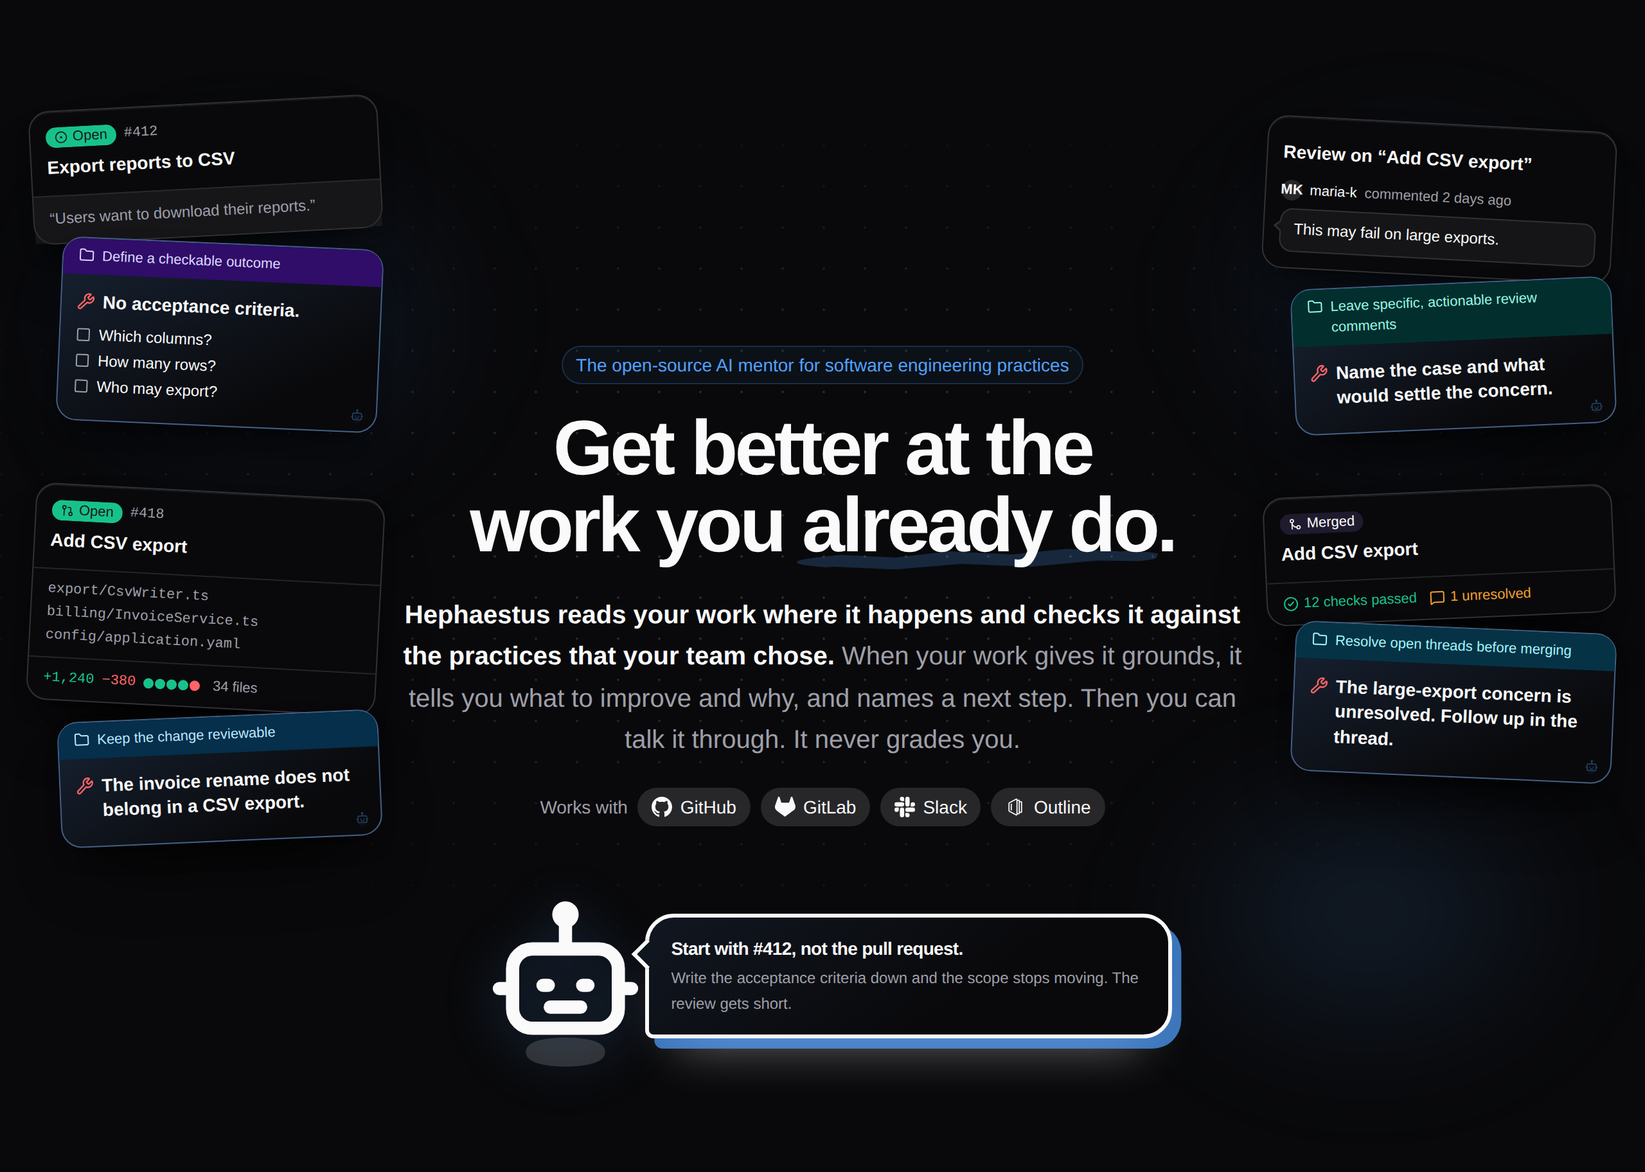
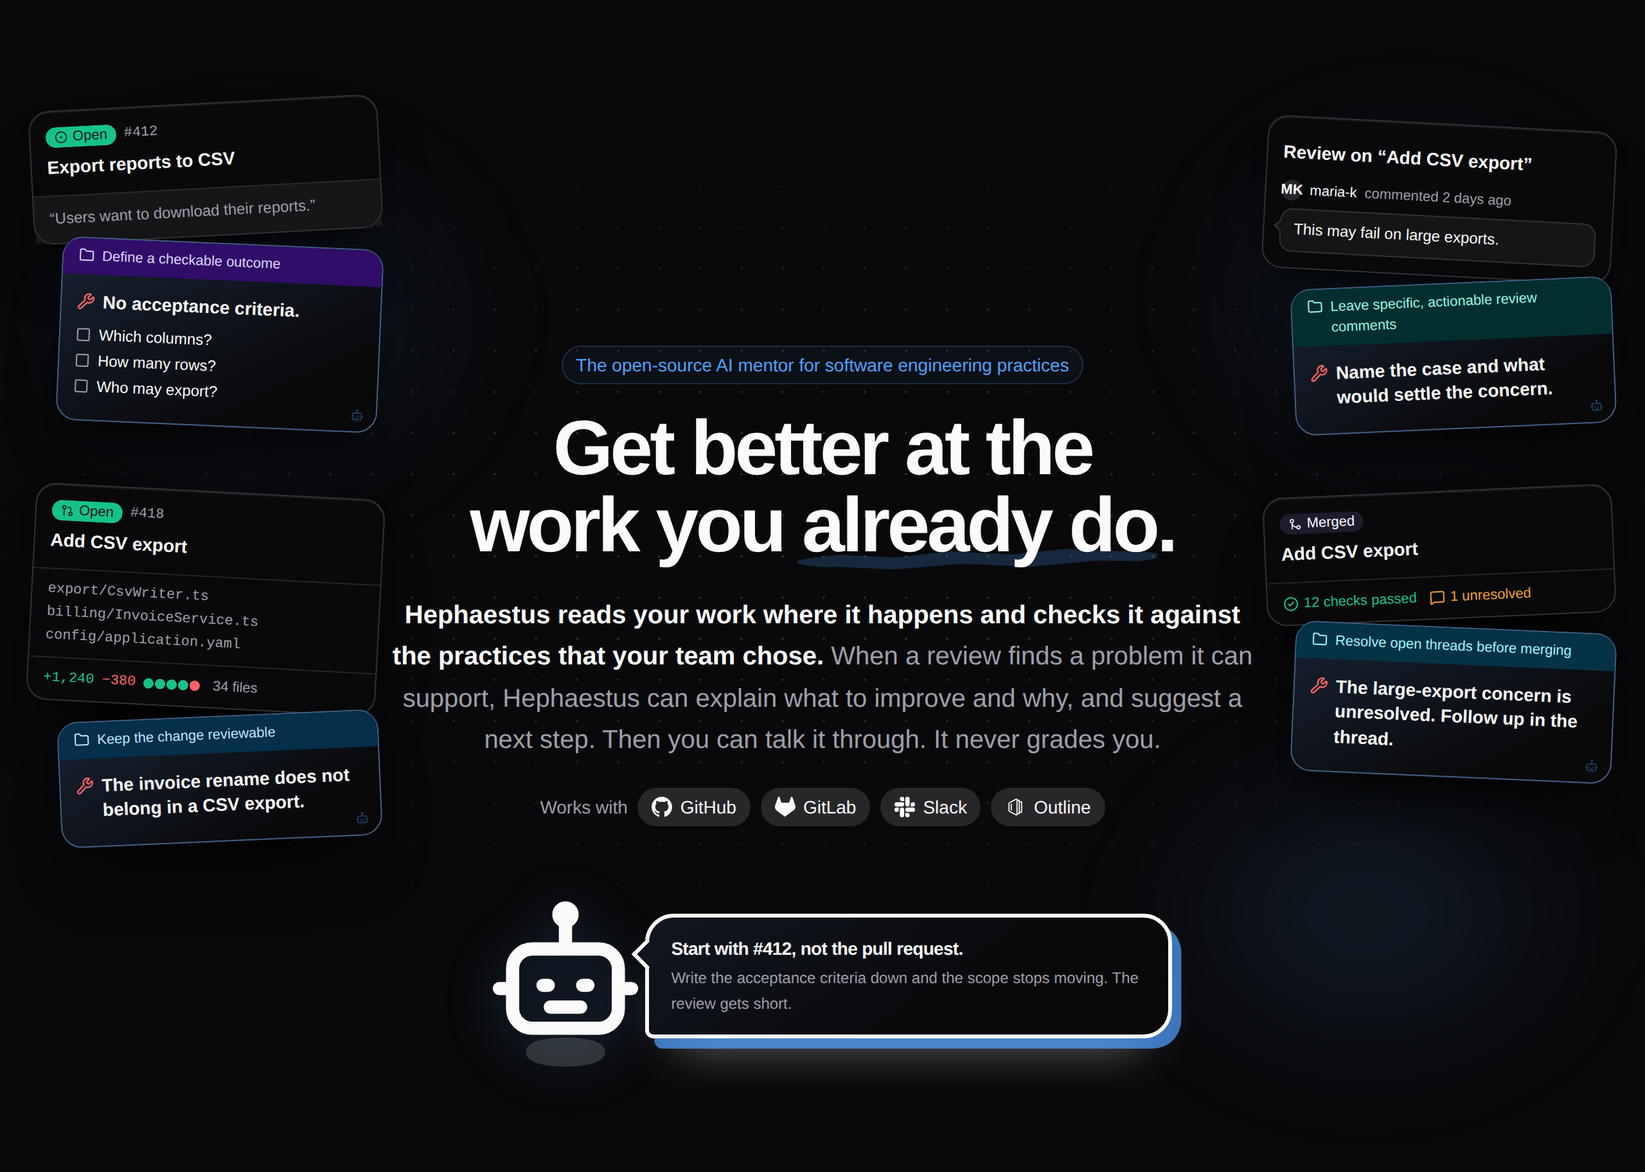
fix: qualify public claims about practice feedback and privacy

Changed region(s): [[0.25, 0.5312, 0.75, 0.6562]]

diff --git a/webapp/src/components/site/landing/LandingFaqSection.tsx b/webapp/src/components/site/landing/LandingFaqSection.tsx
@@ -9,7 +9,7 @@ const faqItems = [
 	{
 		key: "ai-mentor",
 		q: "What does an AI mentor do?",
-		a: "It gives one part of mentoring: feedback on how you apply engineering practices in your real work. Hephaestus checks your work against the practices your team chose. When your work gives it grounds, it says what to improve and why, and names a next step. When it does not, it stays silent or says that it could not check. It is software, not a person. It adds to your reviewers and mentors, and it can be wrong.",
+		a: "It gives one part of mentoring: feedback on how you apply engineering practices in your real work. Hephaestus checks your work against the practices your team chose. When a review finds a problem it can support, Hephaestus can point to the work, explain what to improve, and suggest a next step. An observation can say when the evidence could not settle a question. It is software, not a person. It adds to your reviewers and mentors, and it can be wrong.",
 	},
 	{
 		key: "practice-feedback",
@@ -24,22 +24,22 @@ const faqItems = [
 	{
 		key: "feedback-location",
 		q: "Where does feedback appear?",
-		a: "It can appear on the work itself, on each developer’s private practice page, or in your next conversation with Hephaestus. Feedback on the work waits for a workspace admin’s approval by default. Admins choose which repositories are connected. You can carry on the conversation in the web app or, when Slack is connected, in a direct message.",
+		a: "It can appear on the work itself, on your Practice profile, or in a conversation with Hephaestus. Feedback on the work waits for a workspace admin’s approval by default. Admins choose which repositories are connected. You can carry on the conversation in the web app or, when Slack is connected, in a direct message.",
 	},
 	{
 		key: "who-sees-feedback",
 		q: "Who sees my feedback?",
-		a: "Your feedback has no score, grade or rank. Workspace admins see practice results, each linked to the work it is about, and that feedback on your Practice profile exists, not what it says. They see no names unless a workspace owner turns that on, and each change is recorded. No workspace admin page shows your conversation with Hephaestus. Feedback on the work is visible to everyone who can see that work, like any review comment.",
+		a: "Your feedback has no score, grade or rank. Workspace admins see practice results, each linked to the work it is about, and that feedback on your Practice profile exists, not what it says. A workspace owner can let admins see who these records are about. Hephaestus records each change. Links to the work can still identify you when the setting is off. No workspace admin page shows your conversation with Hephaestus. An instance admin can include it in an audited export of your data. Feedback on the work is visible to everyone who can see that work, like any review comment.",
 	},
 	{
 		key: "conversation",
 		q: "What can I ask Hephaestus?",
-		a: "Why a suggestion matters, or for an example. You can also add context Hephaestus missed, or disagree. Hephaestus draws on your recent project activity, the feedback you have received, and selected Outline documents. Slack channel messages are used only when you allow it.",
+		a: "Why a suggestion matters, or for an example. You can also add context Hephaestus missed, or disagree. Hephaestus draws on your recent project activity, the feedback you have received, and selected Outline documents. Hephaestus can use new messages in monitored Slack channels, and you can turn off use of your channel messages.",
 	},
 	{
 		key: "project-data",
 		q: "What project data can Hephaestus use?",
-		a: "Only what workspace admins connect: specific repositories, and optionally selected Slack channels and Outline collections. Each member chooses In-house, Cloud or No AI for their work across their workspaces. That choice limits which configured models can process their work. Slack channel messages are used only with the member’s permission. Check the privacy information published by your instance operator for provider terms.",
+		a: "Workspace admins choose which repositories, Slack channels, and Outline collections to connect. Each member chooses In-house, Cloud or No AI for their work across their workspaces. That choice limits which configured models can process their work. You can turn off use of your Slack channel messages. Check the privacy information published by your instance operator for provider terms.",
 	},
 	{
 		key: "ai-limitations",
@@ -49,7 +49,7 @@ const faqItems = [
 	{
 		key: "cost",
 		q: "What does it cost?",
-		a: "Hephaestus itself is free and MIT-licensed. If you run it yourself you pay your own AI provider, and your hosting costs. The instance admin sets each workspace’s monthly cap for shared models. The workspace admin sets the cap for the workspace’s own provider.",
+		a: "Hephaestus itself is free and MIT-licensed. If you run it yourself you pay your own AI provider, and your hosting costs. The instance admin can set a monthly budget for shared models in each workspace. The workspace admin can set a cap for the workspace’s own provider.",
 	},
 	{
 		key: "access",

diff --git a/webapp/src/components/site/product-features.ts b/webapp/src/components/site/product-features.ts
@@ -19,31 +19,31 @@ export const PRODUCT_FEATURES: ProductFeature[] = [
 	{
 		icon: ListChecks,
 		name: "Practices Your Team Chose",
-		text: "Start from the catalog or write your own. Each practice states what good work looks like. For each practice, feedback is Off, waits for a workspace admin’s approval, or goes out automatically.",
+		text: "Start from the catalog or write your own. Each practice states what good work looks like. For each practice, feedback can be off. Feedback on the work can wait for a workspace admin’s approval or go out automatically.",
 	},
 	{
 		icon: MessageSquareText,
 		name: "Feedback on the Work",
-		text: "A note on the pull request, merge request, or issue while it is still open. It cites the exact place, says why, and names a next step.",
+		text: "A note on the pull request, merge request, or issue. By default, it posts only while the work is open. It points to the evidence, says why, and suggests a next step.",
 	},
 	{
 		icon: ShieldCheck,
-		name: "Speaks Only With Evidence",
-		text: "When the evidence does not support a point, Hephaestus says nothing. When it could not check a practice, it says so. It never turns a missing check into a claim about your work.",
+		name: "Feedback Grounded in Your Work",
+		text: "A review checks its evidence before feedback can go out. If it cannot capture the evidence it needs, it records no observation for that practice.",
 	},
 	{
 		icon: UserRound,
 		name: "Practice Profile",
-		text: "Your private page for each practice: patterns across your work, what is going well, and where you stand. No score, grade, or rank.",
+		text: "See patterns across your work, what is going well, and where you stand on each practice. No score, grade, or rank.",
 	},
 	{
 		icon: MessagesSquare,
 		name: "Ask Hephaestus",
-		text: "Ask why, ask for an example, or disagree, in the web app or in a Slack direct message. A weekly digest you can turn on arrives there too.",
+		text: "Ask why, ask for an example, or disagree, in the web app or in a Slack direct message. You can turn on a weekly digest in your conversation in the app.",
 	},
 	{
 		icon: Layers,
 		name: "Your Stack",
-		text: "Works with GitHub, GitLab, Slack, and Outline. Your own model provider: OpenAI, Azure OpenAI, or any OpenAI-compatible endpoint. Helm on your Kubernetes.",
+		text: "Works with GitHub, GitLab, Slack, and Outline. Connect OpenAI, Azure OpenAI, Anthropic, or another provider that supports the required API. Helm on your Kubernetes.",
 	},
 ];

diff --git a/webapp/src/components/site/landing/LandingFaqSection.test.tsx b/webapp/src/components/site/landing/LandingFaqSection.test.tsx
@@ -9,7 +9,7 @@ describe("LandingFaqSection", () => {
 		const user = userEvent.setup();
 		render(<LandingFaqSection />);
 		await user.click(screen.getByRole("button", { name: "Where does feedback appear?" }));
-		const answer = await screen.findByText(/on each developer’s private practice page/u);
+		const answer = await screen.findByText(/on your Practice profile/u);
 		expect(answer.textContent).toContain("waits for a workspace admin’s approval by default");
 	});
 
@@ -20,17 +20,15 @@ describe("LandingFaqSection", () => {
 		const answer = await screen.findByText(/Your feedback has no score, grade or rank/u);
 		expect(answer.textContent).toContain("No workspace admin page shows your conversation");
 		expect(answer.textContent).toContain("Feedback on the work is visible to everyone");
-		expect(answer.textContent).not.toMatch(/no admin/iu);
+		expect(answer.textContent).toContain("An instance admin can include it in an audited export");
 	});
 
-	it("names the member AI choice and Slack permission", async () => {
+	it("names the member AI choice and Slack opt-out", async () => {
 		const user = userEvent.setup();
 		render(<LandingFaqSection />);
 		await user.click(screen.getByRole("button", { name: "What project data can Hephaestus use?" }));
 		const answer = await screen.findByText(/Each member chooses In-house, Cloud or No AI/u);
-		expect(answer.textContent).toContain(
-			"Slack channel messages are used only with the member’s permission",
-		);
+		expect(answer.textContent).toContain("You can turn off use of your Slack channel messages.");
 		expect(answer.textContent).not.toContain("set per deployment");
 	});
 
@@ -38,10 +36,10 @@ describe("LandingFaqSection", () => {
 		const user = userEvent.setup();
 		render(<LandingFaqSection />);
 		await user.click(screen.getByRole("button", { name: "What does it cost?" }));
-		const answer = await screen.findByText(/The instance admin sets each workspace’s monthly cap/u);
+		const answer = await screen.findByText(/The instance admin can set a monthly budget/u);
 		expect(answer.textContent).toContain("for shared models");
 		expect(answer.textContent).toContain(
-			"The workspace admin sets the cap for the workspace’s own provider",
+			"The workspace admin can set a cap for the workspace’s own provider",
 		);
 	});
 });

diff --git a/webapp/index.html b/webapp/index.html
@@ -10,12 +10,12 @@
     <meta name="theme-color" content="#315FDC" />
     <meta
       name="description"
-      content="Hephaestus is the open-source AI mentor for software engineering practices. It reads your real work, tells you what to improve and why, and talks it through with you."
+      content="Hephaestus is the open-source AI mentor for software engineering practices. It reads your real work and can suggest what to improve and why. You can talk it through in a conversation."
     />
     <meta property="og:title" content="Hephaestus" />
     <meta
       property="og:description"
-      content="Hephaestus is the open-source AI mentor for software engineering practices. It reads your real work, tells you what to improve and why, and talks it through with you."
+      content="Hephaestus is the open-source AI mentor for software engineering practices. It reads your real work and can suggest what to improve and why. You can talk it through in a conversation."
     />
     <meta property="og:type" content="website" />
     <meta property="og:image" content="/hephaestus-social-card.png" />
@@ -27,7 +27,7 @@
     <meta name="twitter:title" content="Hephaestus" />
     <meta
       name="twitter:description"
-      content="Hephaestus is the open-source AI mentor for software engineering practices. It reads your real work, tells you what to improve and why, and talks it through with you."
+      content="Hephaestus is the open-source AI mentor for software engineering practices. It reads your real work and can suggest what to improve and why. You can talk it through in a conversation."
     />
     <meta name="twitter:image" content="/hephaestus-social-card.png" />
     <meta name="twitter:image:alt" content="Hephaestus: Get better at the work you already do." />

diff --git a/webapp/src/components/site/about/AboutHeroSection.tsx b/webapp/src/components/site/about/AboutHeroSection.tsx
@@ -11,9 +11,9 @@ export function AboutHeroSection() {
 			<p className="mx-auto max-w-2xl text-xl leading-relaxed text-pretty text-muted-foreground">
 				Hephaestus is the open-source AI mentor for software engineering practices. It reads your
 				pull requests, merge requests, issues and code reviews where they happen, and checks them
-				against the practices that your team chose. When your work gives it grounds, it tells you
-				what to improve and why, at the exact place, and names a next step. When it does not, it
-				stays silent or says that it could not check.
+				against the practices that your team chose. When a review finds a problem it can support,
+				Hephaestus can point to the work, explain what to improve, and suggest a next step. An
+				observation can say when the evidence could not settle a question.
 			</p>
 			<p className="mx-auto max-w-2xl text-lg leading-relaxed text-pretty text-muted-foreground">
 				In a conversation, you can ask Hephaestus why, ask for an example, or disagree. Your

diff --git a/webapp/src/components/site/landing/LandingHeroSection.tsx b/webapp/src/components/site/landing/LandingHeroSection.tsx
@@ -249,8 +249,8 @@ export function LandingHeroSection({ onSignIn }: LandingHeroSectionProps) {
 							your team chose.
 						</span>{" "}
 						<span className="text-muted-foreground">
-							When your work gives it grounds, it tells you what to improve and why, and names a
-							next step. Then you can talk it through. It never grades you.
+							When a review finds a problem it can support, Hephaestus can explain what to improve
+							and why, and suggest a next step. Then you can talk it through. It never grades you.
 						</span>
 					</motion.p>
 

diff --git a/docs/src/lib/site.ts b/docs/src/lib/site.ts
@@ -4,7 +4,7 @@ export const PRODUCT_URL = "https://hephaestus.build";
 export const SITE_TITLE = "Hephaestus documentation";
 
 export const DESCRIPTION =
-	"Hephaestus is the open-source AI mentor for software engineering practices. It reads your real work, tells you what to improve and why, and talks it through with you.";
+	"Hephaestus is the open-source AI mentor for software engineering practices. It reads your real work and can suggest what to improve and why. You can talk it through in a conversation.";
 
 export const GUIDES = [
 	{

diff --git a/server/application/src/main/java/de/tum/cit/aet/hephaestus/integration/slack/onboarding/SlackAppHomeService.java b/server/application/src/main/java/de/tum/cit/aet/hephaestus/integration/slack/onboarding/SlackAppHomeService.java
@@ -185,7 +185,7 @@ public class SlackAppHomeService {
                 section(
                         s -> s.text(
                                 markdownText(
-                                        "*Context and privacy.* Hephaestus can use your linked project work and new messages you send in monitored channels. It does not read channel history from before the channel was activated. It replies only in your direct messages."))));
+                                        "*Context and privacy.* Hephaestus can use your linked project work and new messages you send in monitored channels. It does not read channel history from before the channel was activated. In Slack, Hephaestus replies in direct messages. You can also read those replies in the app."))));
     }
 
     record HomeOverviewState(
@@ -220,7 +220,7 @@ public class SlackAppHomeService {
         if (state.refusal().isPresent()) {
             return state.refusal().get().userMessage();
         }
-        return "*Get better at the work you already do.* Hephaestus is an AI mentor for software engineering practices. In the Messages tab, ask about your feedback, PRs, reviews, issues, or team ways of working. The replies stay in DMs.";
+        return "*Get better at the work you already do.* Hephaestus is an AI mentor for software engineering practices. In the Messages tab, ask about your feedback, PRs, reviews, issues, or team ways of working. Hephaestus replies in Slack direct messages, and you can also read the replies in the app.";
     }
 
     private static String stateIcon(boolean ok) {

diff --git a/server/application/src/test/java/de/tum/cit/aet/hephaestus/integration/slack/onboarding/SlackAppHomeServiceTest.java b/server/application/src/test/java/de/tum/cit/aet/hephaestus/integration/slack/onboarding/SlackAppHomeServiceTest.java
@@ -121,7 +121,10 @@ class SlackAppHomeServiceTest extends BaseUnitTest {
         assertThat(rendered).doesNotContain("What project-practice issue should I follow up on");
         assertThat(json).doesNotContain("\\\\n");
         assertThat(rendered).contains("Enabled for you"); // conversation-status anchor
-        assertThat(rendered).contains("It replies only in your direct messages"); // channel-behavior claim
+        assertThat(rendered)
+                .contains(
+                        "In Slack, Hephaestus replies in direct messages.",
+                        "You can also read those replies in the app.");
         assertThat(rendered).contains("Linked as `octocat`"); // identity anchor
         assertThat(rendered).contains("Allowed, 1 active channel"); // channel-count anchor
         assertThat(rendered).contains("Stop using my messages"); // opt-out wording

diff --git a/README.md b/README.md
@@ -23,8 +23,8 @@
 
 Hephaestus is an AI mentor for software engineering practices.
 It reads your pull requests, merge requests, issues and code reviews where they happen, and checks them against the practices that your team chose.
-When your work gives it grounds, it tells you what to improve and why, at the exact place, and names a next step.
-When it does not, it stays silent or says that it could not check.
+When a review finds a problem it can support, Hephaestus can point to the work, explain what to improve, and suggest a next step.
+An observation can say when the evidence could not settle a question.
 You can talk it through, ask for an example, or disagree, in the app or in Slack.
 
 Hephaestus is software, and it can be wrong.
@@ -58,35 +58,36 @@ Hephaestus is built to help you grow, not to grade you.
 It is not designed to grade, appraise or rank people, or to set allocation or pay ([Intended purpose](./docs/admin/intended-purpose.mdx)).
 
 - Your feedback has no score, grade or rank.
-- Your Practice profile is yours.
+- Your Practice profile shows your own feedback.
   Workspace admins see practice results, each linked to the work it is about.
   They see that your feedback exists, not what it says.
-  They see no names unless a workspace owner turns that on.
-  The setting is off by default, and each change is recorded.
+  They can see who private feedback and results are about if a workspace owner turns on per-person results for admins.
+  Links to the work can still identify you when names are hidden.
+  The setting is off for new workspaces, and each change is recorded.
 - No workspace admin page shows your conversation with Hephaestus.
+  An instance admin can include it in an audited export of your data.
 - Feedback on the work is visible to everyone who can see that work, like any review comment.
 
-[Who can see what](https://docs.hephaestus.build/user/privacy#who-can-see-what) lists every reader, including the audited support access of instance admins.
+[Who can see what](https://docs.hephaestus.build/user/privacy#who-can-see-what) explains who can read your data, including the audited support access of instance admins.
 
 ## Features
 
 - **Practices Your Team Chose**: Start from the catalog or write your own.
   Each practice states what good work looks like.
   The catalog covers scoping, issues, reviews, testing, security, version control, and recorded decisions.
-  For each practice, feedback is Off, waits for a workspace admin's approval, or goes out automatically.
-- **Feedback on the Work**: A note on the pull request, merge request, or issue while it is still open.
-  It cites the exact place, says why, and names a next step.
-  When a later review shows that you fixed every problem a line note named, Hephaestus resolves its thread.
+  For each practice, feedback can be off. Feedback on the work can wait for a workspace admin's approval or go out automatically.
+- **Feedback on the Work**: A note on the pull request, merge request, or issue. By default, it posts only while the work is open.
+  It points to the evidence, says why, and suggests a next step.
+  When a later review shows that you fixed every problem a line note named, Hephaestus can resolve its thread.
   Work drafted with a coding agent gets the same feedback.
-- **Speaks Only With Evidence**: When the evidence does not support a point, Hephaestus says nothing.
-  When it could not check a practice, it says so.
-  It never turns a missing check into a claim about your work.
-- **Practice Profile**: Your private page for each practice: patterns across your work, what is going well, and where you stand.
+- **Feedback Grounded in Your Work**: A review checks its evidence before feedback can go out.
+  If it cannot capture the evidence it needs, it records no observation for that practice.
+- **Practice Profile**: See patterns across your work, what is going well, and where you stand on each practice.
   No score, grade, or rank.
 - **Ask Hephaestus**: Ask why, ask for an example, or disagree, in the web app or in a Slack direct message.
-  A weekly digest you can turn on arrives there too.
+  You can turn on a weekly digest in your conversation in the app.
 - **Your Stack**: Works with GitHub, GitLab, Slack, and Outline.
-  Your own model provider: OpenAI, Azure OpenAI, or any OpenAI-compatible endpoint.
+  Connect OpenAI, Azure OpenAI, Anthropic, or another provider that supports the required API.
   Helm on your Kubernetes.
   Each member chooses which models may handle their work: **In-house**, **Cloud**, or **No AI**.
 

diff --git a/.changeset/accurate-practice-feedback-copy.md b/.changeset/accurate-practice-feedback-copy.md
@@ -1,0 +1,5 @@
+---
+"hephaestus": patch
+---
+
+The public pages now explain when practice feedback can reach you, how to turn off use of your Slack channel messages, and when an instance admin can export your Hephaestus conversation.
